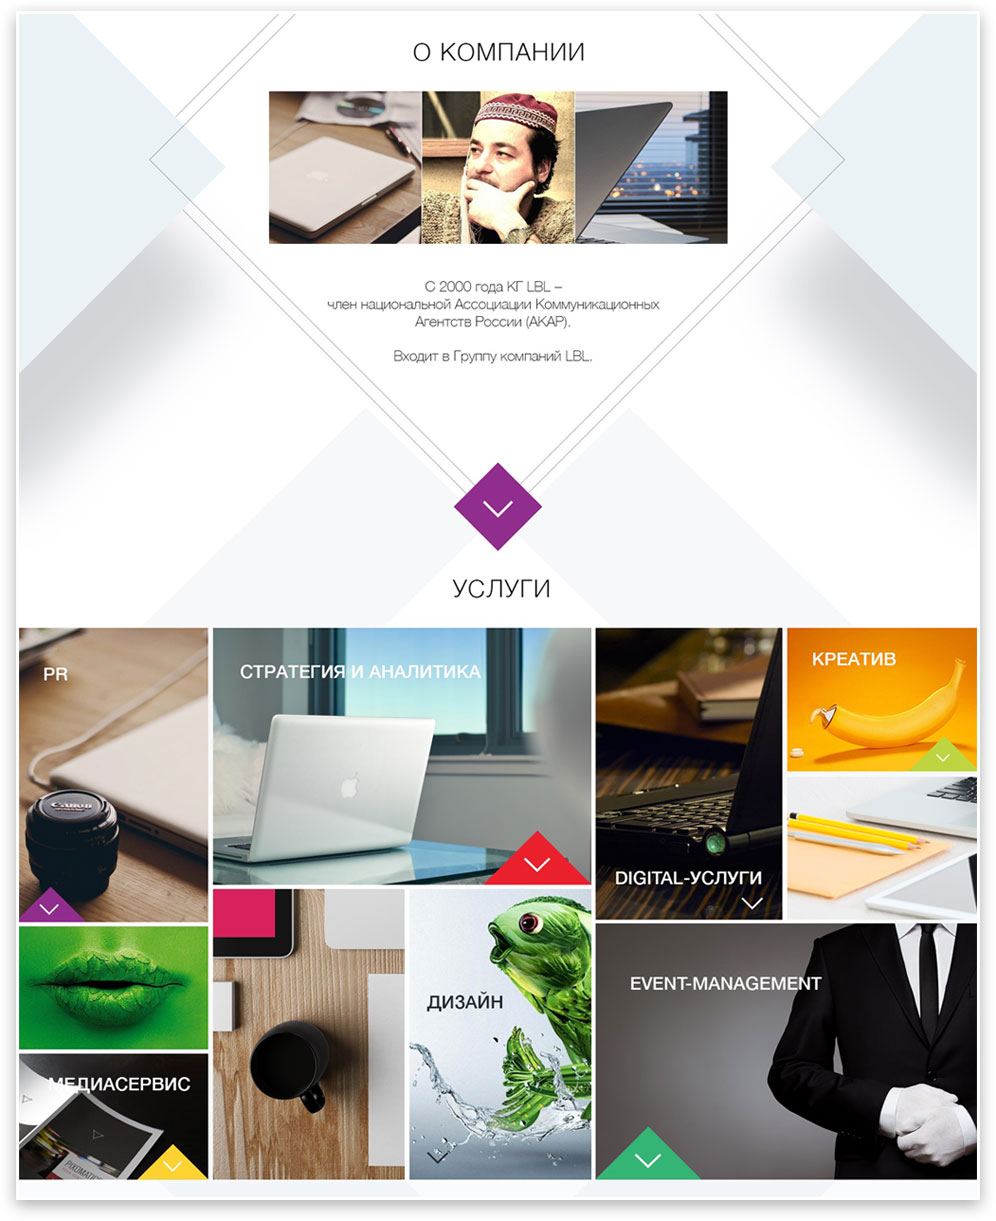
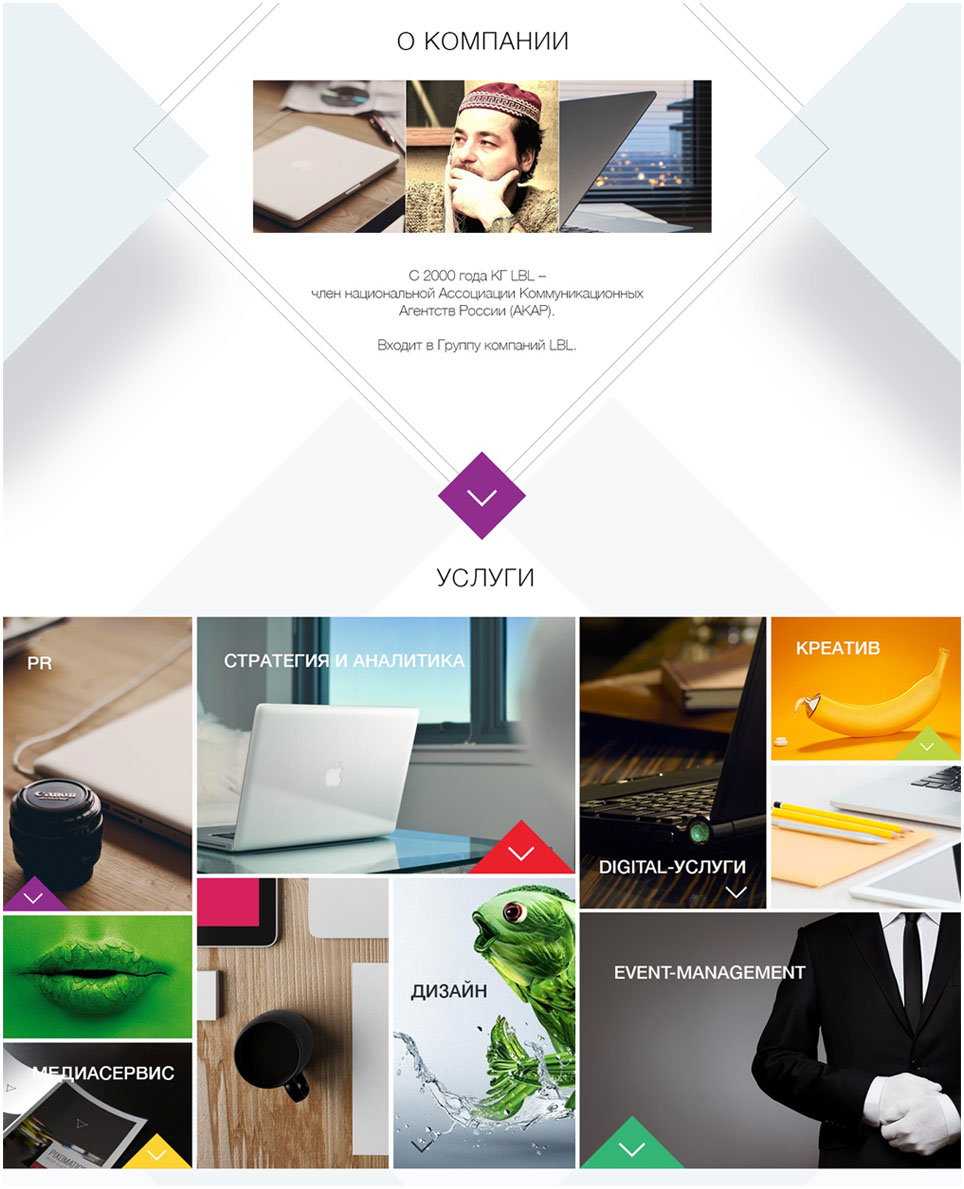
pravki

diff --git a/css/media.css b/css/media.css
@@ -313,10 +313,18 @@
   }
 }
 @media (max-width: 767px) {
+
+  .tech-info .col-sm-6{
+    margin-bottom: 20px;
+  }
   .advertising-wrapper.hidden-xs + .info-slide{
     padding-top: 10px;
     padding-bottom: 0;
   }
+  .adv-block .serv-visible{
+    top: 10px;
+  }
+
   .serv-block:hover .serv-visible{
     top:15px;
   }
@@ -329,7 +337,9 @@
   .serv-block{
     height: 200px;
   }
-
+  .adv-block:hover .serv-visible{
+    top: 10px;
+  }
 
   .designing-container .icon-block:last-child{
     float: none;
@@ -364,6 +374,7 @@
   }
   .table-month thead {
     font-size: 12px;
+    text-transform: none;
   }
   .table-month tbody {
     font-size: 12px;
@@ -490,9 +501,11 @@
   }
   .submit-form {
     width: 90%;
+    padding-top: 10px;
   }
   .submit-form fieldset {
     width: 90%;
+    padding-top: 10px;
   }
   .submit-btn {
     font-size: 16px;
@@ -816,8 +829,27 @@
     width: 90px;
     height: 85px;
   }
+  .proj-text .proj-right ul li{
+    padding-left: 0;
+    border-right-color: transparent;
+  }
+  .proj-text .proj-right p{
+    margin-top: 15px;
+  }
 }
 @media (max-width: 500px) {
+  .table-month thead,
+  .table-month tbody,
+  .table-month tbody .large-text,
+  .table-month tbody .large-price{
+    font-size: 10px;
+  }
+  .order-tarif{
+    height: 40px;
+    line-height: 40px;
+    font-size: 9px;
+  }
+
   .slide-container .line{
     display: none;
   }

diff --git a/css/main.css b/css/main.css
@@ -319,6 +319,22 @@ h1:after {
   background: url(../images/projects-h.png) no-repeat;
   background-position: 50%;
 }
+.about-block:hover .about-icon.year {
+  background: url(../images/year-h.png) no-repeat;
+  background-position: 50%;
+}
+.about-block:hover .about-icon.more {
+  background: url(../images/more-h.png) no-repeat;
+  background-position: 50%;
+}
+.about-block:hover .about-icon.telephone {
+  background: url(../images/telephone-h.png) no-repeat;
+  background-position: 50%;
+}
+.about-block:hover .about-icon.terms {
+  background: url(../images/terms-h.png) no-repeat;
+  background-position: 50%;
+}
 .about-block p {
   margin: 0;
 }
@@ -1733,6 +1749,9 @@ h1:after {
 .main-project img {
   max-width: 100%;
   height: auto;
+  -webkit-box-shadow: 0px 5px 18px 0px rgba(0, 0, 0, 0.33);
+  -moz-box-shadow: 0px 5px 18px 0px rgba(0, 0, 0, 0.33);
+  box-shadow: 0px 5px 18px 0px rgba(0, 0, 0, 0.33);
 }
 .proj-text {
   margin-top: 75px;

diff --git a/css/main.less b/css/main.less
@@ -346,6 +346,22 @@ h1{
 			background: url(../images/projects-h.png)no-repeat;
 			background-position: 50%;
 		}
+		&:hover .about-icon.year{
+			background: url(../images/year-h.png)no-repeat;
+			background-position: 50%;
+		}
+		&:hover .about-icon.more{
+			background: url(../images/more-h.png)no-repeat;
+			background-position: 50%;
+		}
+		&:hover .about-icon.telephone{
+			background: url(../images/telephone-h.png)no-repeat;
+			background-position: 50%;
+		}
+		&:hover .about-icon.terms{
+			background: url(../images/terms-h.png)no-repeat;
+			background-position: 50%;
+		}
 		p{
 			margin: 0;
 		}
@@ -1889,6 +1905,9 @@ h1{
 		img{
 			max-width: 100%;
 			height: auto;
+			-webkit-box-shadow: 0px 5px 18px 0px rgba(0, 0, 0, 0.33);
+			-moz-box-shadow:    0px 5px 18px 0px rgba(0, 0, 0, 0.33);
+			box-shadow:         0px 5px 18px 0px rgba(0, 0, 0, 0.33)
 		}
 }
 .proj-text{

diff --git a/page-project.html b/page-project.html
@@ -84,7 +84,7 @@
 
 			<section class="main-project">
 				<h1>Главная страница</h1>
-				<img src="images/project-img.jpg" height="3294" width="996" alt="">
+				<img src="images/project-img.jpg" height="3262" width="964" alt="">
 				<div class="social-sign">
 					<a href="#">
 						<img src="images/sign-twitter.png" height="34" width="188" alt="">
@@ -102,7 +102,7 @@
 			</section>
 			<section class="main-project">
 				<h1>страница услуги</h1>
-				<img src="images/project-img-2.jpg" height="1221" width="996" alt="">
+				<img src="images/project-img-2.jpg" height="1189" width="964" alt="">
 				<div class="social-sign">
 					<a href="#">
 						<img src="images/sign-twitter.png" height="34" width="188" alt="">

diff --git a/tech-support.html b/tech-support.html
@@ -267,11 +267,11 @@
 				<table class="table-month">
 					<thead>
 						<tr>
-							<td>перечень работ входящих в тариф</td>
-							<td>тариф “старт”</td>
-							<td>тариф “стандарт”</td>
-							<td>тариф “БИЗНЕС”</td>
-							<td>тариф “ПРЕМИУМ”</td>
+							<td>Перечень работ входящих в тариф</td>
+							<td>Тариф “старт”</td>
+							<td>Тариф “стандарт”</td>
+							<td>Тариф “БИЗНЕС”</td>
+							<td>Тариф “ПРЕМИУМ”</td>
 						</tr>
 					</thead>
 					<tbody>
